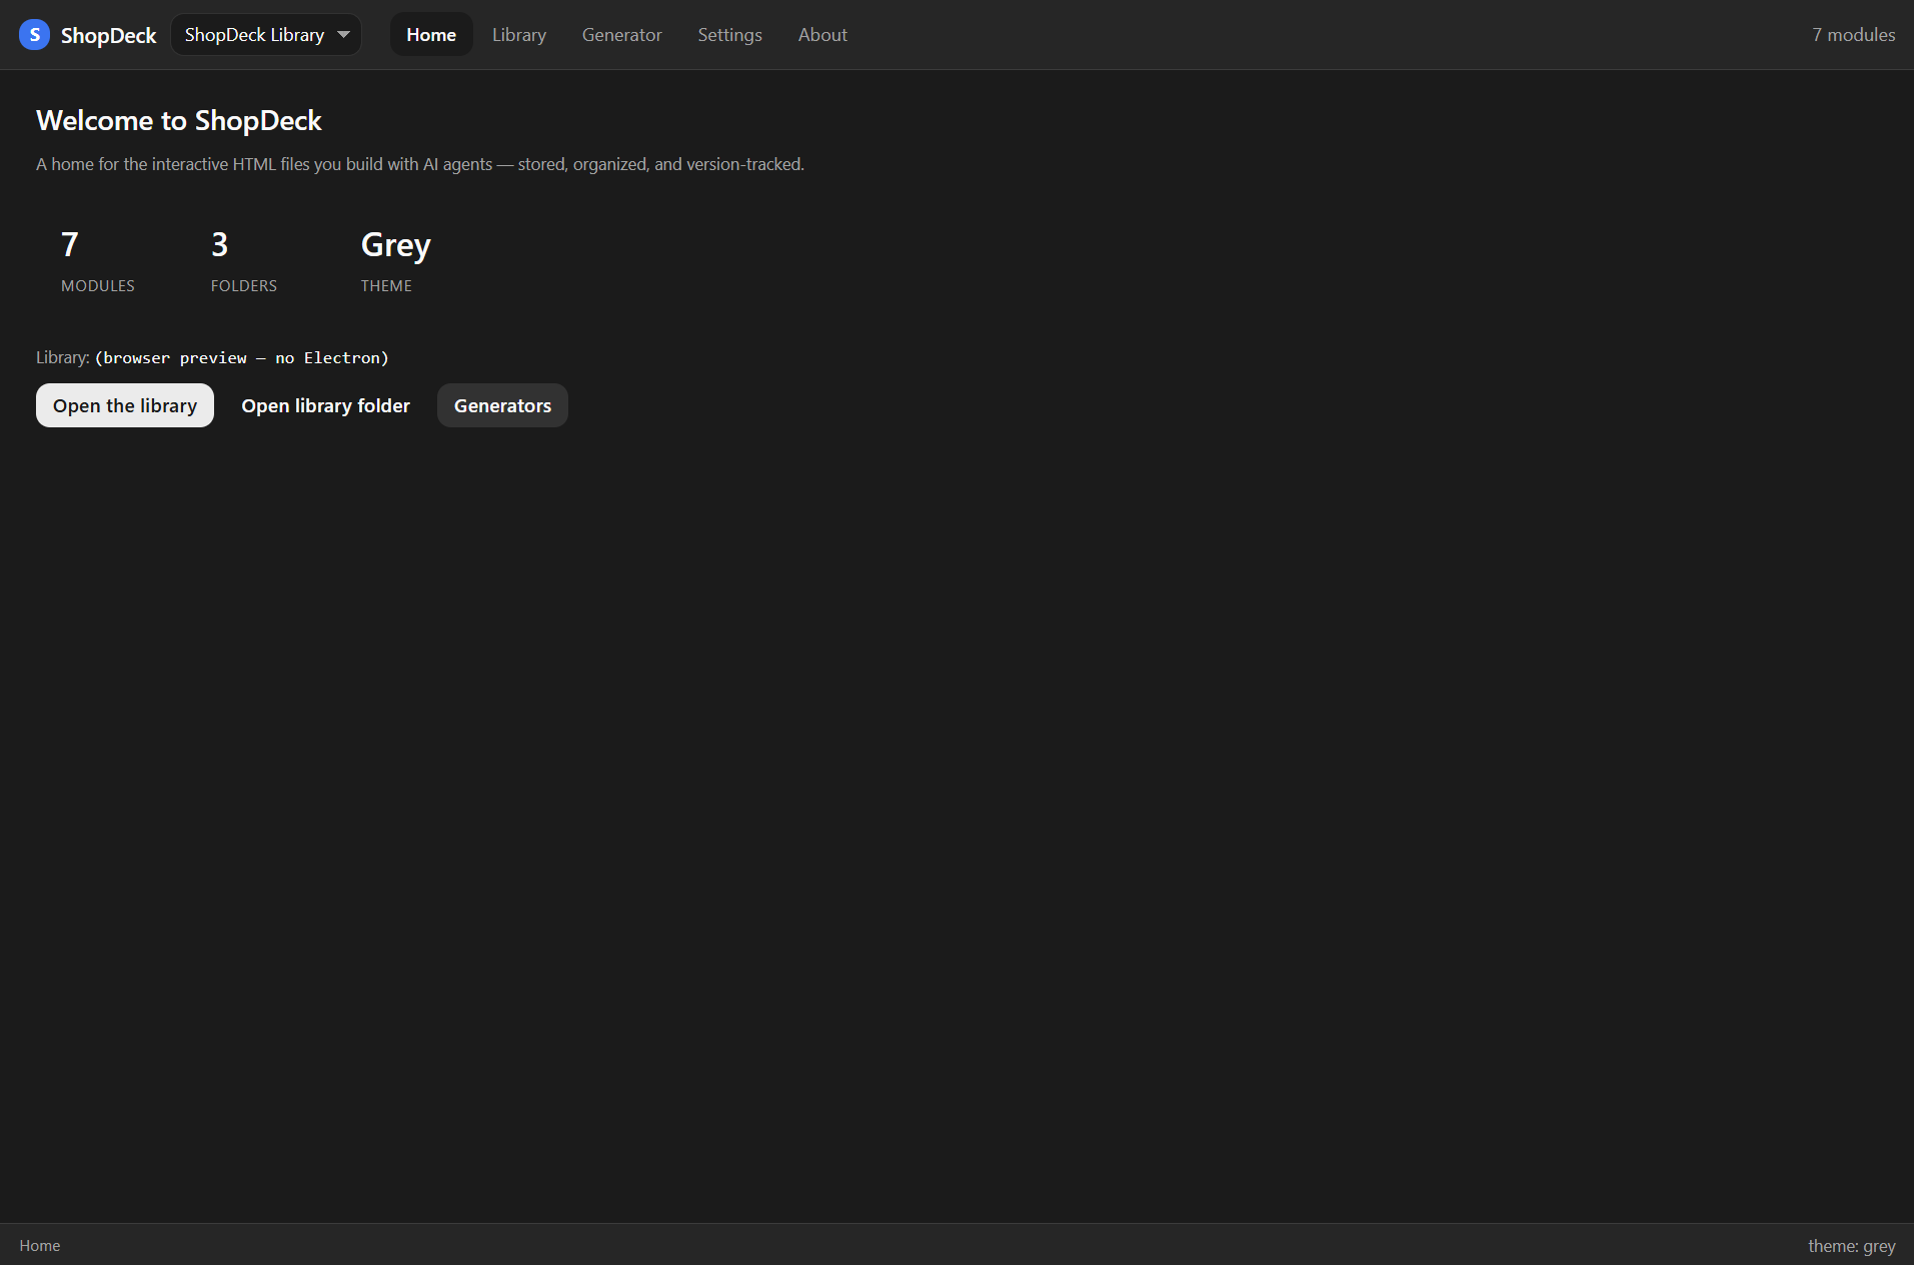
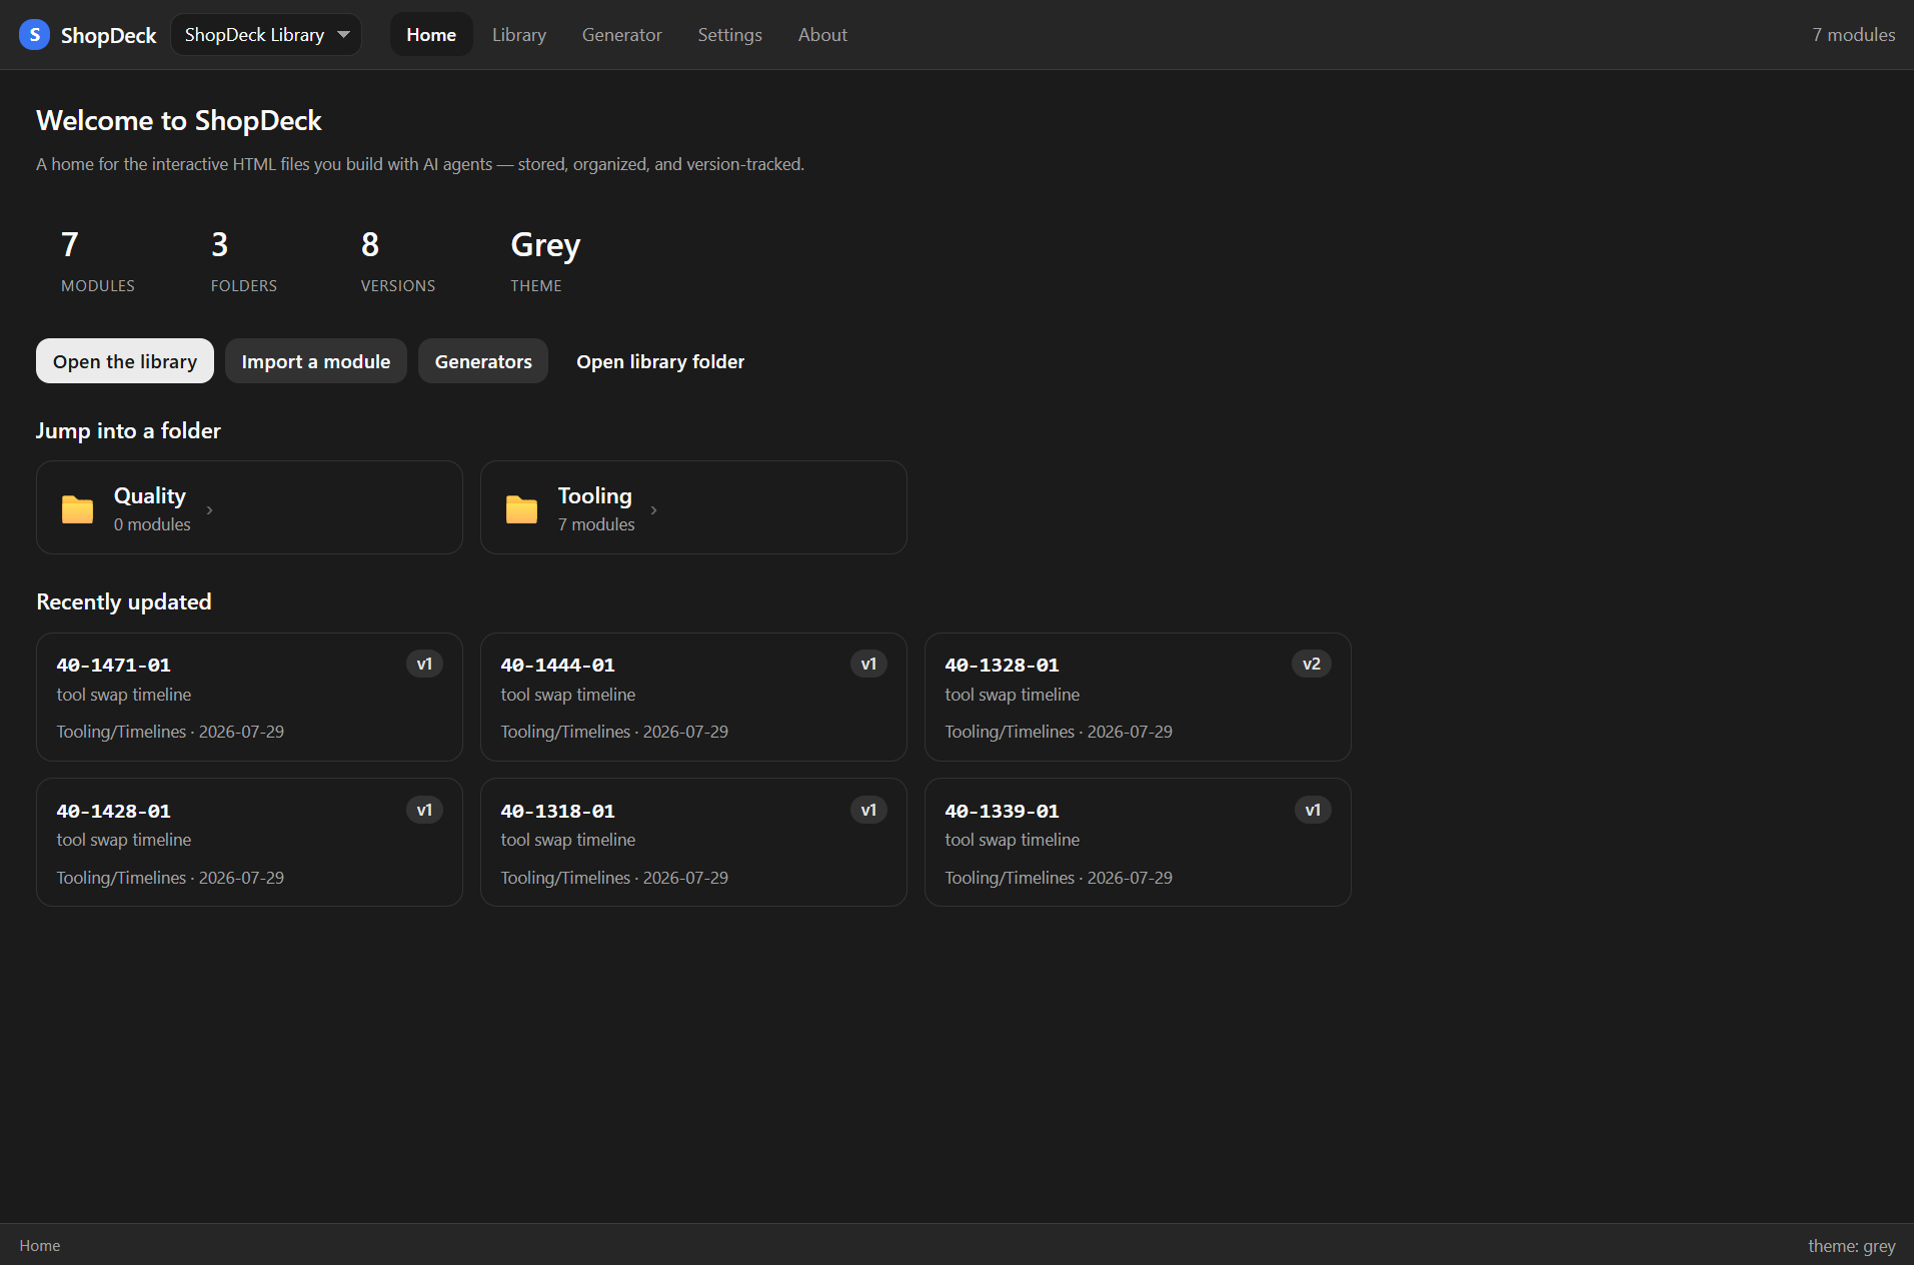
Release 1.5.0: folder drill-down, richer Home, plug-in generators, search, shared writes
Bumps version to 1.5.0 and refreshes the screenshots (Home, library, folder
browse, sort, tag editing) to match the new UI.

diff --git a/docs/USER-GUIDE.md b/docs/USER-GUIDE.md
@@ -33,15 +33,20 @@ and **About**.
 
 ![The library: a folder tree and tag filters on the left, a card grid with previews and version badges, and the search/sort toolbar up top.](img/library.png)
 
-- **Folder tree** (left) — mirrors the folders under your library root. Click a
-  folder to show its modules (and everything nested under it). Click **All** to
-  show the whole library. The **breadcrumb** above the grid shows where you are.
+- **Folder tree** (left) — mirrors the folders under your library root. **All
+  modules** shows the whole library as one flat, searchable grid. Clicking a
+  folder (or **Library** for the root) *browses* it: you see its subfolders as
+  **folder cards** and the modules that live directly in it — a file-explorer
+  drill-down. Click a folder card (or a tree entry) to go deeper; the
+  **breadcrumb** walks Library ▸ folder ▸ subfolder back out.
 - **Cards** (center) — one per module: title/part number, type, a **version
   badge**, a preview, a size figure, its tags, and **Edit** / **Source** actions.
 - **Tags** (left, below folders) — click to filter; click again to clear. Combine
   with the folder selection and search.
 - **Toolbar** — search box, sort (**Updated / Name / Swaps**), **New folder**, and
   **Import**.
+
+![Browsing a folder: subfolders appear as folder cards and only the modules directly in that folder are listed, with a breadcrumb to walk back out.](img/folders.png)
 
 ## Opening a module
 

diff --git a/CHANGELOG.md b/CHANGELOG.md
@@ -1,7 +1,15 @@
 # Changelog
 
-## [Unreleased]
+## [1.5.0] — 2026-08-01
 ### Added
+- **Folder drill-down in the library.** Browsing a folder (or the library root) now
+  shows its subfolders as clickable **folder cards** and lists only the modules
+  directly in that folder — a file-explorer feel. A separate **All modules** entry
+  keeps the flat, search-everything view; the breadcrumb walks Library ▸ folder ▸ sub.
+- **Richer Home page.** At-a-glance stats (modules, folders, total versions, theme),
+  quick actions (open library / import / generators / open folder), **Jump into a
+  folder** cards, and a **Recently updated** strip — a launchpad instead of a near-
+  empty page.
 - **Search inside modules** (Settings → *Search inside modules*, off by default): the
   library search also matches text *inside* each module — find a serial, date, or
   value that appears anywhere in a file, not just in its title/tags. A small content
